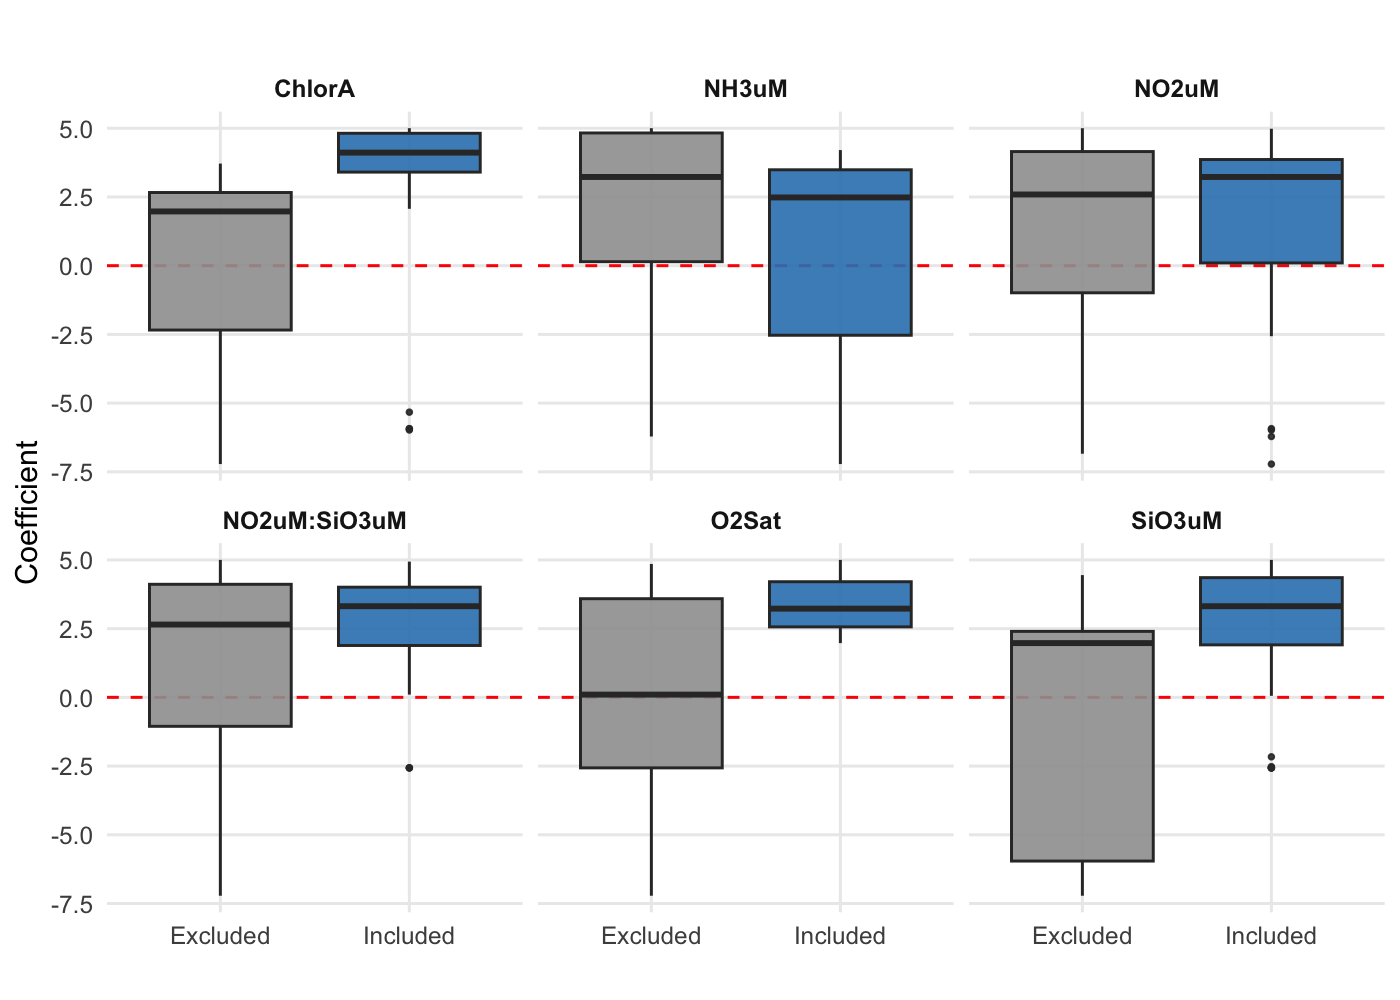
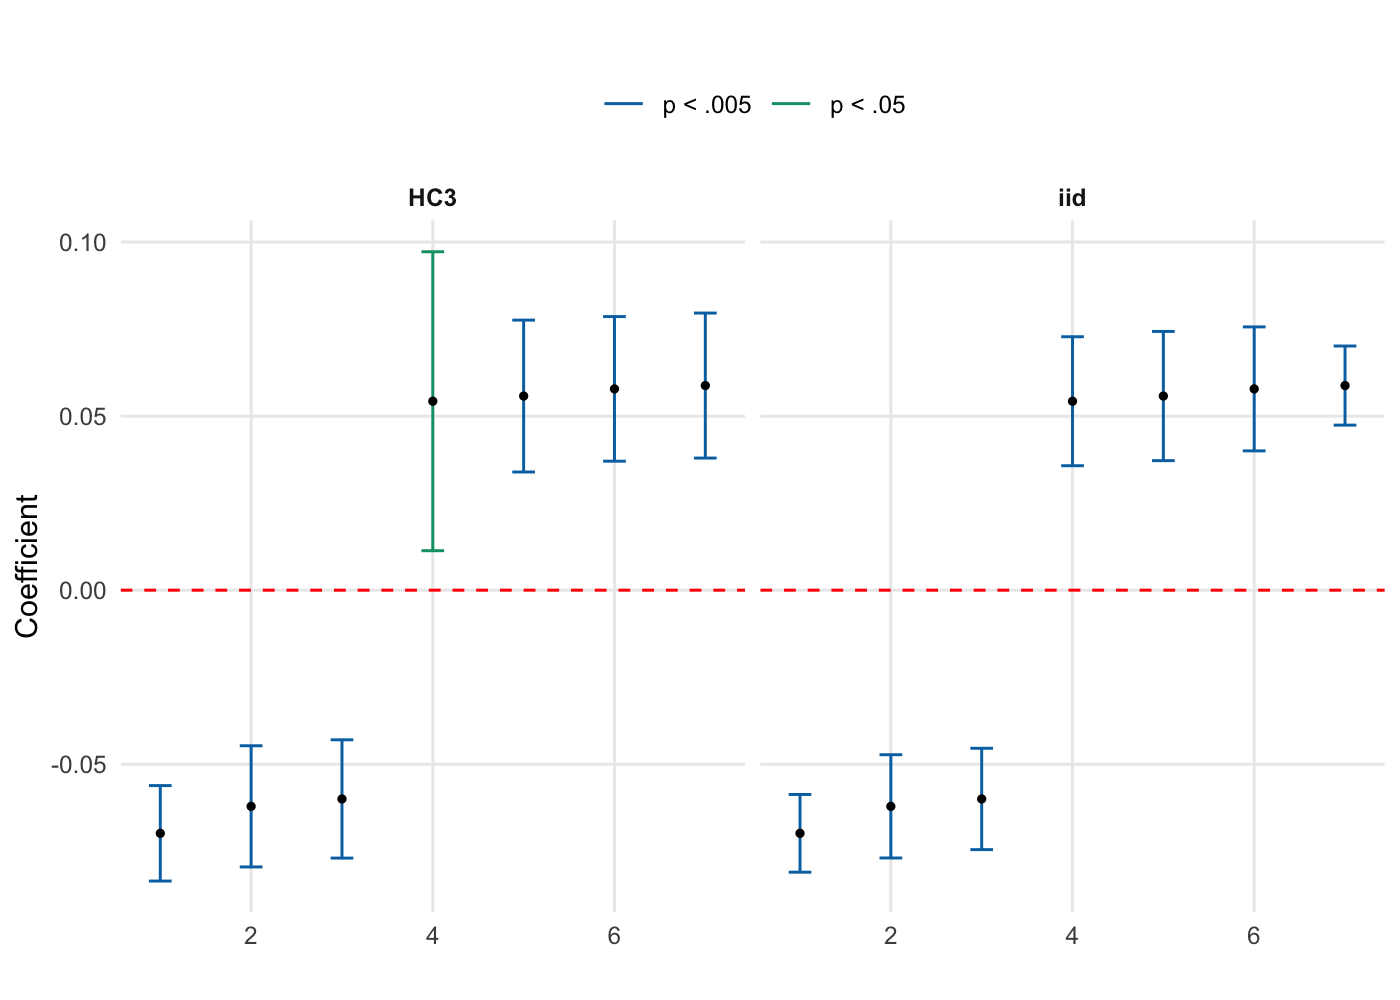
Add glm-family support to se_compare()
se_compare() gains `family`/`link` arguments mirroring sca(), so the full
range of glm() model families (logistic, Poisson, ...) can be compared
across standard error types. The iid, HC, clustered (vcovHC/vcovCL accept
glm objects), and bootstrapped SE machinery all carry over; only the
model-fitting call branches between lm() and glm(). Fixed effects remain
OLS-only and are dropped with a warning for non-linear families, matching
sca().

- Extract resolve_family() helper shared by sca() and se_compare(); sca()'s
  linear and glm paths remain byte-identical (golden-snapshot verified).
- Thread an optional family object through boot_ses() and se_boot(), adding
  a glm() resample branch.
- Add 8 testthat cases (one asserts byte-equality with a direct glm() +
  sandwich fit); regenerate roxygen docs; document in NEWS and the README
  (with a logistic example); drop the completed roadmap item.

diff --git a/README.md b/README.md
@@ -306,13 +306,13 @@ se_compare(formula = "Salnty ~ T_degC + ChlorA", data = bottles,
            types = c("iid", "bootstrapped"),
            boot_samples=c(8, 10), boot_sample_size=c(200, 300))
 #>                  estimate         iid bootstrap_k8n200 bootstrap_k10n200
-#> (Intercept) 34.2940251811 0.097594017      0.080411962       0.105633767
-#> T_degC      -0.0599783335 0.007428642      0.008550785       0.008151774
-#> ChlorA       0.0006514447 0.012449618      0.036977220       0.059454808
+#> (Intercept) 34.2940251811 0.097594017      0.088790929        0.12672843
+#> T_degC      -0.0599783335 0.007428642      0.007438934        0.01027224
+#> ChlorA       0.0006514447 0.012449618      0.077451981        0.04930364
 #>             bootstrap_k8n300 bootstrap_k10n300
-#> (Intercept)      0.088204400       0.071353251
-#> T_degC           0.006969881       0.005789994
-#> ChlorA           0.035864511       0.040206977
+#> (Intercept)      0.066857759       0.070319131
+#> T_degC           0.005620832       0.005574957
+#> ChlorA           0.028073681       0.027908414
 ```
 
 Clustered standard errors are also supported:
@@ -344,6 +344,24 @@ se_compare(formula = "Salnty ~ T_degC + ChlorA | Sta_ID", data = bottles,
 Note: CL_FE refers to standard errors clustered by fixed effects
 variables, i.e. the default errors reported by `fixest::feols()`.
 
+`se_compare()` is not limited to OLS. Pass a `family` (and optionally a
+`link`), exactly as you would to `sca()`, to compare standard error
+types for any `glm()` model family—logistic regression, Poisson, and so
+on. Every standard error type carries over, including bootstrapped and
+clustered errors:
+
+``` r
+# A binary outcome for a quick logistic-regression example.
+bottles$saline <- as.integer(bottles$Salnty > median(bottles$Salnty, na.rm = TRUE))
+
+se_compare(formula = "saline ~ T_degC + ChlorA", data = bottles,
+           family = "binomial", types = c("iid", "HC0", "HC3"))
+#>               estimate      iid       HC0       HC3
+#> (Intercept) 24.6937899 7.690972 6.0349157 6.3898863
+#> T_degC      -2.6538943 0.814460 0.6444346 0.6820432
+#> ChlorA       0.5100412 0.343188 0.1673462 0.4674847
+```
+
 You can visualize these comparisons too. `plot_se()` shows each
 coefficient’s estimate with a confidence interval under every standard
 error type, coloured by whether the interval excludes zero:
@@ -353,7 +371,7 @@ plot_se(se_compare("Salnty ~ T_degC + ChlorA + O2Sat", data = bottles,
                    types = c("iid", "HC0", "HC1", "HC3")))
 ```
 
-<img src="man/figures/README-unnamed-chunk-22-1.png" width="100%" />
+<img src="man/figures/README-unnamed-chunk-23-1.png" width="100%" />
 
 And `plot_multi_se()` draws the whole specification curve faceted by
 standard error type. The estimates are identical across facets, so you
@@ -366,7 +384,7 @@ plot_multi_se(y = "Salnty", x = "T_degC",
               data = bottles, types = c("iid", "HC3"))
 ```
 
-<img src="man/figures/README-unnamed-chunk-23-1.png" width="100%" />
+<img src="man/figures/README-unnamed-chunk-24-1.png" width="100%" />
 
 # Diagnostic plots
 
@@ -378,7 +396,7 @@ which modelling choices move the estimate:
 plot_influence(s)
 ```
 
-<img src="man/figures/README-unnamed-chunk-24-1.png" width="100%" />
+<img src="man/figures/README-unnamed-chunk-25-1.png" width="100%" />
 
 `plot_coef_fit()` plots the coefficient against model fit, revealing
 whether your best-fitting specifications give systematically different
@@ -388,7 +406,7 @@ estimates:
 plot_coef_fit(s)
 ```
 
-<img src="man/figures/README-unnamed-chunk-25-1.png" width="100%" />
+<img src="man/figures/README-unnamed-chunk-26-1.png" width="100%" />
 
 # Other features
 
@@ -424,31 +442,31 @@ formulae <- sca(y = "T_degC", x = "Salnty",
 formulae
 #> $`T_degC ~ Salnty + O2Sat`
 #> T_degC ~ Salnty + O2Sat
-#> <environment: 0x156ab90b0>
+#> <environment: 0x111a62470>
 #> 
 #> $`T_degC ~ Salnty + NO2uM`
 #> T_degC ~ Salnty + NO2uM
-#> <environment: 0x156ab90b0>
+#> <environment: 0x111a62470>
 #> 
 #> $`T_degC ~ Salnty + SiO3uM`
 #> T_degC ~ Salnty + SiO3uM
-#> <environment: 0x156ab90b0>
+#> <environment: 0x111a62470>
 #> 
 #> $`T_degC ~ Salnty + O2Sat + NO2uM`
 #> T_degC ~ Salnty + O2Sat + NO2uM
-#> <environment: 0x156ab90b0>
+#> <environment: 0x111a62470>
 #> 
 #> $`T_degC ~ Salnty + O2Sat + SiO3uM`
 #> T_degC ~ Salnty + O2Sat + SiO3uM
-#> <environment: 0x156ab90b0>
+#> <environment: 0x111a62470>
 #> 
 #> $`T_degC ~ Salnty + NO2uM + SiO3uM`
 #> T_degC ~ Salnty + NO2uM + SiO3uM
-#> <environment: 0x156ab90b0>
+#> <environment: 0x111a62470>
 #> 
 #> $`T_degC ~ Salnty + O2Sat + NO2uM + SiO3uM`
 #> T_degC ~ Salnty + O2Sat + NO2uM + SiO3uM
-#> <environment: 0x156ab90b0>
+#> <environment: 0x111a62470>
 ```
 
 Then it’s easy to estimate the models yourself with the pre-made
@@ -485,7 +503,6 @@ summary(my_own_models[[1]])
 Feel free to contact me at <zayne@mit.edu> to let me know of features
 you would find useful. Currently, I hope to add the following:
 
-- Support for all `glm` model families in `se_compare()`
 - A formal joint-inference test for the specification curve (à la
   Simonsohn, Simmons, and Nelson 2020), comparing the observed curve to
   its distribution under the null

diff --git a/NEWS.md b/NEWS.md
@@ -10,6 +10,12 @@
   right-hand-side term is the focal independent variable, the remaining terms
   are controls, and anything after `|` is treated as fixed effects. The original
   `y` / `x` / `controls` / `fixed_effects` argument interface is unchanged.
+* `se_compare()` gains `family` and `link` arguments mirroring `sca()`, so the
+  full range of `glm()` model families (e.g. logistic, Poisson) can be compared
+  across standard error types. The iid, heteroskedasticity-consistent,
+  clustered, and bootstrapped standard error machinery all carry over to glm
+  fits. Fixed effects remain OLS-only and are dropped with a warning when a
+  non-linear family is supplied, matching `sca()`'s behaviour.
 * New `plot_se()`: visualises the output of `se_compare()`, plotting each
   coefficient's estimate with a confidence interval for every standard error
   type so the sensitivity of inference to the choice of standard error is easy
